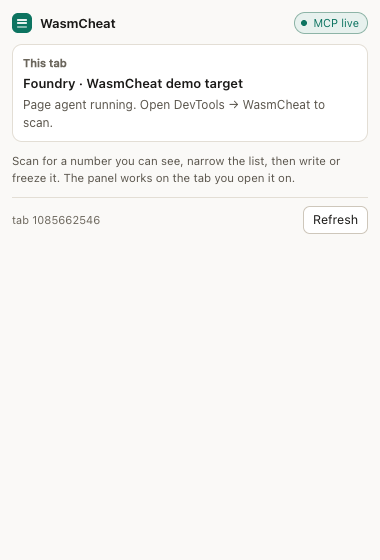
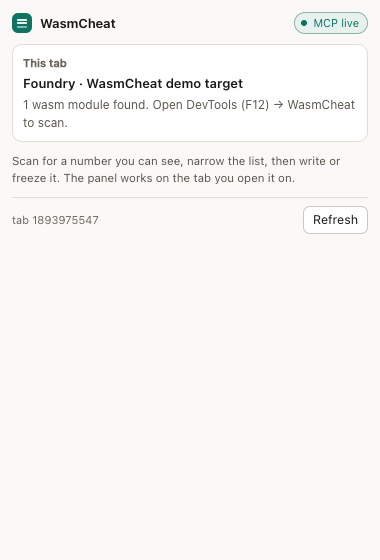
feat: the popup says whether the page has wasm and how to open the panel; CI badge

Changed region(s): [[0.0579, 0.1821, 0.9263, 0.2429], [0.1158, 0.3643, 0.2605, 0.425]]

diff --git a/packages/extension/src/popup.ts b/packages/extension/src/popup.ts
@@ -81,11 +81,31 @@ async function refresh(): Promise<void> {
 
   target.textContent = tab.title || tab.url;
   stateLine.textContent = tab.agentAttached
-    ? 'Page agent running. Open DevTools → WasmCheat to scan.'
+    ? describeWasm(await wasmCount(tab.tabId))
     : 'WasmCheat is not in this page yet. Open DevTools → WasmCheat on this tab: it reloads the page once to get in.';
   hint.textContent =
     'Scan for a number you can see, narrow the list, then write or freeze it. The panel works on the tab you open it on.';
   note.textContent = `tab ${tab.tabId}`;
+}
+
+/** How many wasm modules the page runs, or undefined when the page did not answer. */
+async function wasmCount(tabId: number): Promise<number | undefined> {
+  try {
+    const reply = (await chrome.runtime.sendMessage({
+      type: 'wasmcheat.panel.call',
+      method: 'ext.call',
+      params: { tabId, method: 'page.listInstances', params: {} },
+    })) as { result?: unknown[] } | undefined;
+    return Array.isArray(reply?.result) ? reply.result.length : undefined;
+  } catch {
+    return undefined;
+  }
+}
+
+function describeWasm(modules: number | undefined): string {
+  if (modules === undefined) return 'Open DevTools (F12) → WasmCheat to scan this page.';
+  if (modules === 0) return 'No WebAssembly in this page yet. If the game starts on a click, start it, then open DevTools (F12) → WasmCheat.';
+  return `${modules} wasm ${modules === 1 ? 'module' : 'modules'} found. Open DevTools (F12) → WasmCheat to scan.`;
 }
 
 document.getElementById('refresh')?.addEventListener('click', () => void refresh());

diff --git a/README.md b/README.md
@@ -1,5 +1,7 @@
 # WasmCheat
 
+[![CI](https://github.com/alfman99/wasm-ce/actions/workflows/ci.yml/badge.svg)](https://github.com/alfman99/wasm-ce/actions/workflows/ci.yml)
+
 Find a number in a browser game and change it. WasmCheat is a memory scanner for WebAssembly, the
 way Cheat Engine is for desktop games, except it lives in your browser: a DevTools panel, no
 download besides the extension, nothing native, no debugger.
